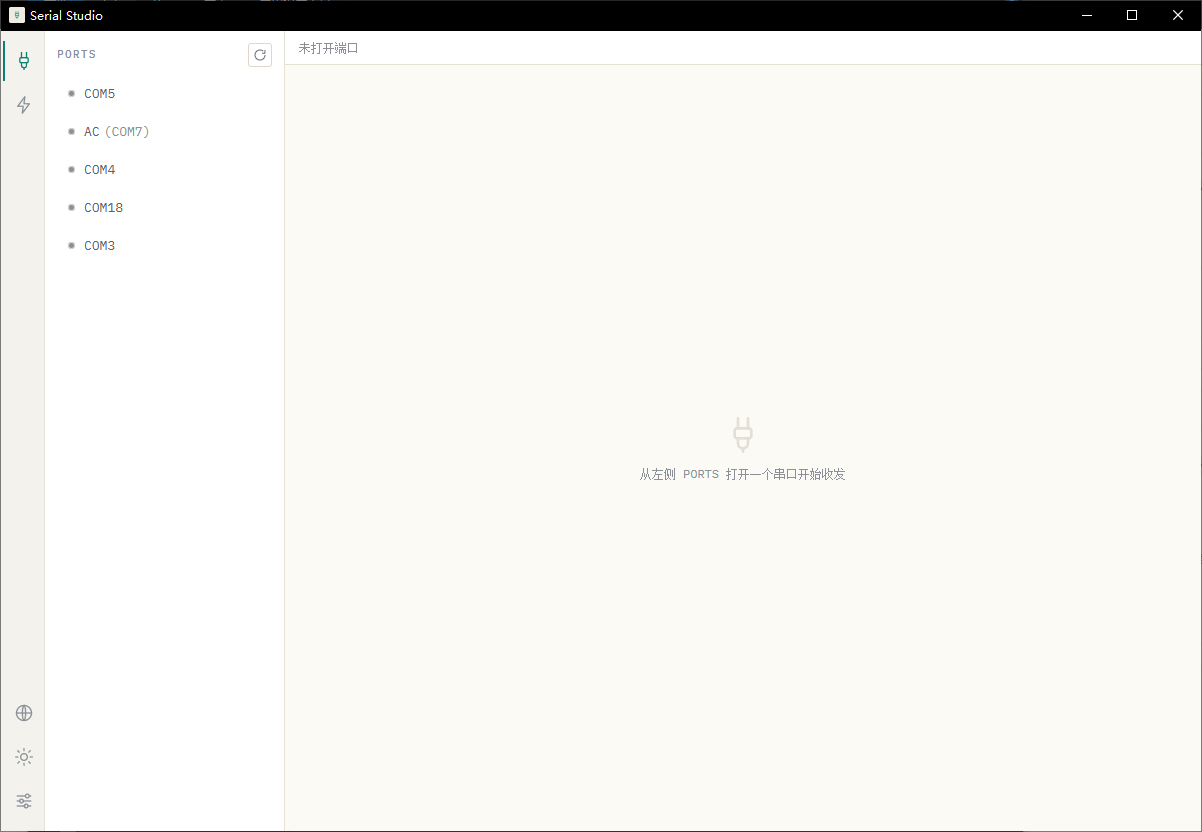
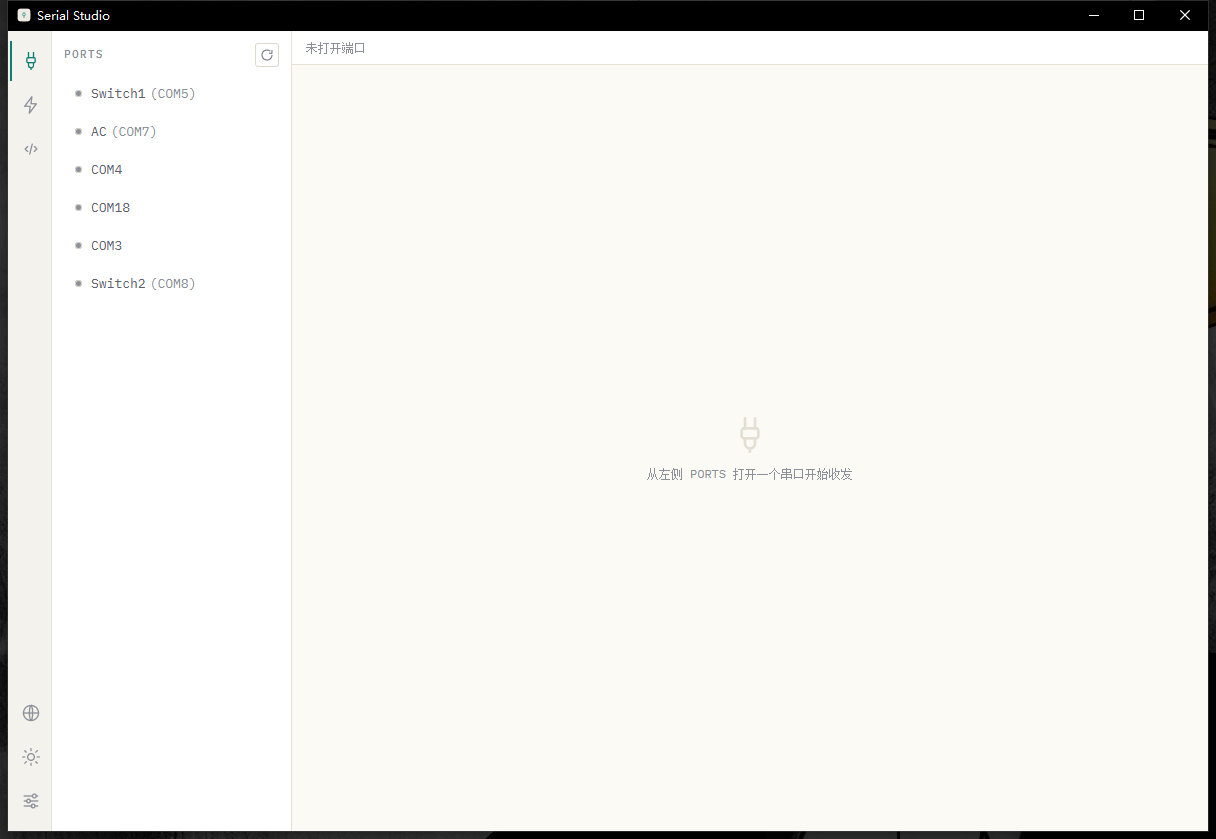
docs(mcp): 补 MCP 接入说明 + 更新截图
- README(英中):MCP 工具 6→7(加 serial_run_script)、提 serial_script_guide
  prompt、新增 Claude Code 接入命令(claude mcp add --transport http)与其他客户端提示
- 更新 docs/screenshot.png

diff --git a/README.md b/README.md
@@ -105,9 +105,21 @@ Runtime config lives next to the binary:
 
 ## 🤖 MCP
 
-`POST /mcp` speaks JSON-RPC. Six tools: `serial_list`, `serial_send`, `serial_read`,
-`serial_status`, `serial_grep`, `serial_clear`. The `port` argument accepts a real port name
-**or** an alias.
+`POST /mcp` speaks JSON-RPC. Seven tools: `serial_list`, `serial_send`, `serial_read`,
+`serial_status`, `serial_grep`, `serial_clear`, and `serial_run_script` (JS scripting,
+gated by `enable_scripting`). The `port` argument accepts a real port name **or** an alias.
+A `serial_script_guide` prompt documents the scripting API and constraints.
+
+### Connect from Claude Code
+
+```bash
+claude mcp add --scope user --transport http SerialStudio http://<host>:18700/mcp
+```
+
+Replace `<host>` with the machine running Serial Studio (`127.0.0.1` for the local app).
+Other MCP clients (Claude Desktop, etc.): add an HTTP MCP server pointing at the same URL.
+
+### Raw JSON-RPC
 
 ```jsonc
 {

diff --git a/README.zh-CN.md b/README.zh-CN.md
@@ -103,8 +103,21 @@ release 产物为 `serial-studio.exe`。
 
 ## 🤖 MCP
 
-`POST /mcp`，JSON-RPC 协议。六个工具：`serial_list`、`serial_send`、`serial_read`、
-`serial_status`、`serial_grep`、`serial_clear`。`port` 参数可用真实端口名 **或别名**。
+`POST /mcp`,JSON-RPC 协议。七个工具:`serial_list`、`serial_send`、`serial_read`、
+`serial_status`、`serial_grep`、`serial_clear`,以及 `serial_run_script`(JS 脚本,
+受 `enable_scripting` 开关控制)。`port` 参数可用真实端口名 **或别名**。
+`serial_script_guide` prompt 记录了脚本 API 与约束。
+
+### 从 Claude Code 接入
+
+```bash
+claude mcp add --scope user --transport http SerialStudio http://<host>:18700/mcp
+```
+
+把 `<host>` 换成运行 Serial Studio 的机器(`127.0.0.1` 为本地桌面应用)。其他 MCP 客户端
+(Claude Desktop 等):添加指向同一 URL 的 HTTP MCP server。
+
+### 原始 JSON-RPC
 
 ```jsonc
 {
